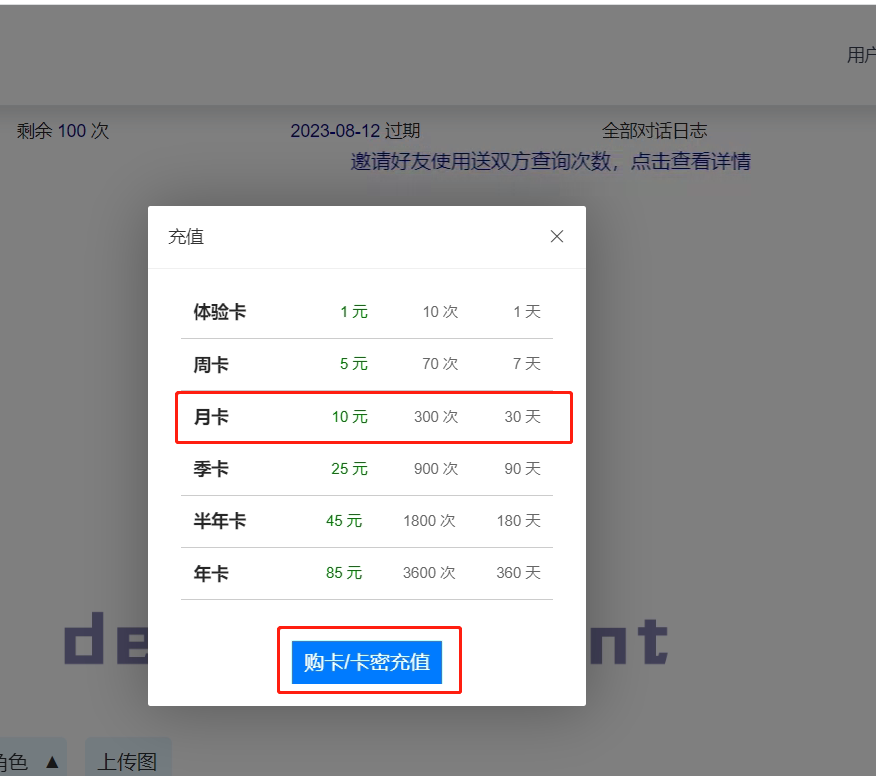
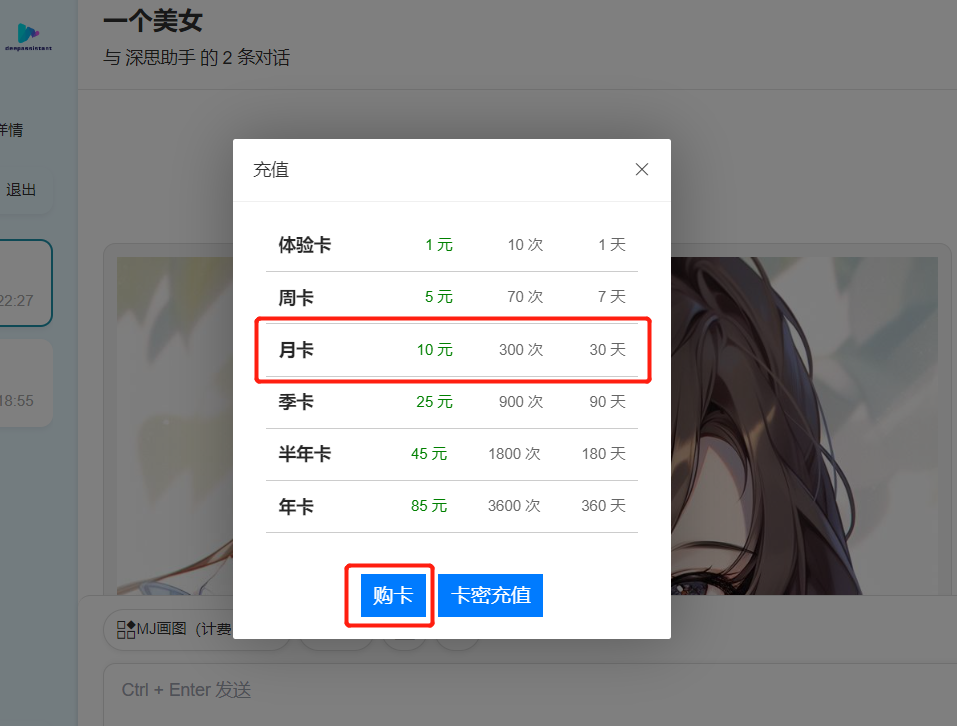
UI改版，导航更新图片

diff --git a/README.md b/README.md
@@ -70,35 +70,11 @@ icon: note
 
 ![](./docs/local_image/mj2.png)
 
-这里介绍一下U，V画图指令
-
-**U功能**：选取四张图片中的一张进行无损放大
-
-![](./docs/local_image/mj3.png)
-
-
-
-**V功能**：选取四张照片中的一张，进行细节调整
-
-操作同U功能一致
+![](./docs/local_image/mj22.png)
 
 **图片保存**
 
 midjourney画的图可以在网页上直接保存
-
-**midjourney 提示词书写助手的使用**
-
-对于熟悉midjourney的用户，同样为您提供了一些常用的midjourney绘图命令，可以通过点选的形式方便的输入
-
-![](./docs/local_image/mj7.png)
-
-![](./docs/local_image/mj8.png)
-
-通过点击标签选中想要的画图指令。
-
-![](./docs/local_image/mj9.png)
-
-点击复制，将文本复制，粘贴输入框，注意此时应尽量使用英文提示词。
 
 ### 四、充值
 
@@ -108,7 +84,7 @@ midjourney画的图可以在网页上直接保存
 
 2. 如果次数用完，可以按照以下步骤充值
 
-![](./docs/local_image/充值2.png)
+
 
 ![](./docs/local_image/充值3.png)
 
@@ -117,8 +93,6 @@ midjourney画的图可以在网页上直接保存
 ![](./docs/local_image/充值4.png)
 
 ![](./docs/local_image/充值5.png)
-
-PS：如果是手机充值，跳转淘宝软件后返回界面没有粘贴卡密的界面，请重复上述操作，在跳转购买时候不作任何选择，直接返回就可以看到粘贴卡密的界面。
 
 
 

diff --git a/docs/README.md b/docs/README.md
@@ -70,35 +70,9 @@ icon: note
 
 ![](./local_image/mj2.png)
 
-这里介绍一下U，V画图指令
-
-**U功能**：选取四张图片中的一张进行无损放大
-
-![](./local_image/mj3.png)
-
-
-
-**V功能**：选取四张照片中的一张，进行细节调整
-
-操作同U功能一致
-
 **图片保存**
 
 midjourney画的图可以在网页上直接保存
-
-**midjourney 提示词书写助手的使用**
-
-对于熟悉midjourney的用户，同样为您提供了一些常用的midjourney绘图命令，可以通过点选的形式方便的输入
-
-![](./local_image/mj7.png)
-
-![](./local_image/mj8.png)
-
-通过点击标签选中想要的画图指令。
-
-![](./local_image/mj9.png)
-
-点击复制，将文本复制，粘贴输入框，注意此时应尽量使用英文提示词。
 
 ### 四、充值
 
@@ -116,9 +90,9 @@ midjourney画的图可以在网页上直接保存
 
 ![](./local_image/充值4.png)
 
-![](./local_image/充值5.png)
+购买充值卡，会获得对应级别的充值卡密码，按照下图操作充值即可。
 
-PS：如果是手机充值，跳转淘宝软件后返回界面没有粘贴卡密的界面，请重复上述操作，在跳转购买时候不作任何选择，直接返回就可以看到粘贴卡密的界面。
+![](./local_image/充值5.png)
 
 
 
